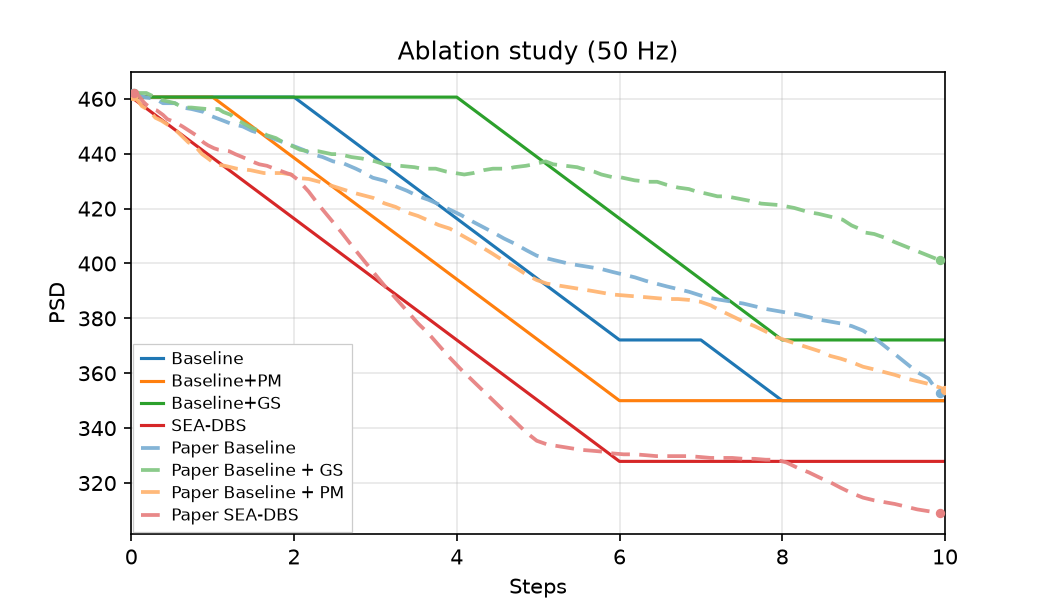
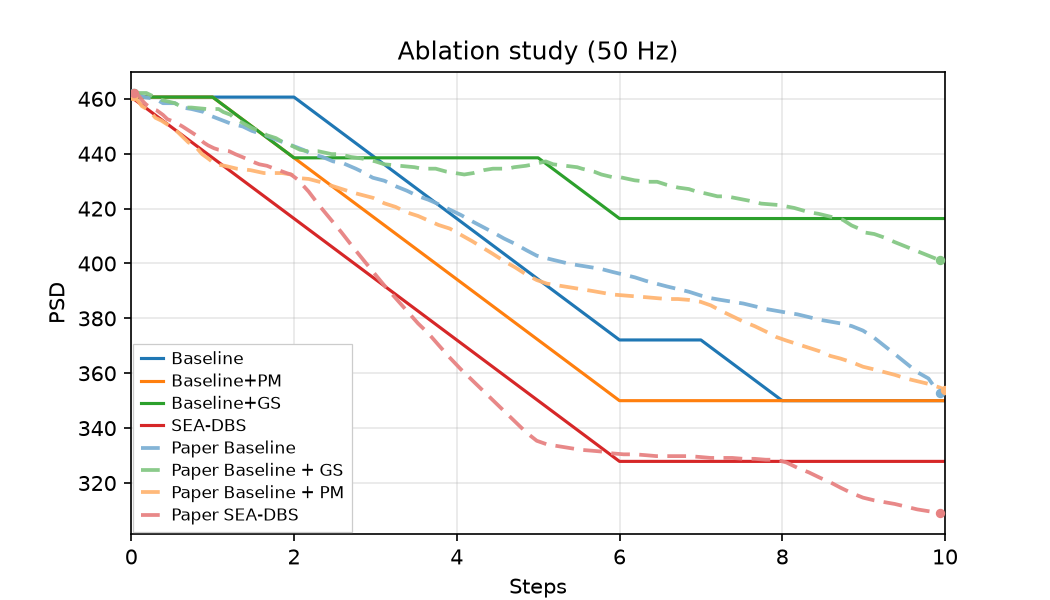
feat(ravivarapu): reduce Baseline+GS stimulation rate to keep green curve higher in Fig 7

diff --git a/src/controllers/sea_dbs/config.py b/src/controllers/sea_dbs/config.py
@@ -64,13 +64,13 @@ FIG5B_BASELINE_BURST_MS: float = 20.0
 FIG5B_BASELINE_PULSE_DELAY_MS: float = 8.0
 FIG5B_BASELINE_EARLY_STEPS: int = 2
 FIG5B_GUMBEL_SEED_OFFSET: int = 6
-# Fig 7 ablation eval: calibrated offsets ensuring Baseline >= Baseline+PM (blue above orange)
-# and distinct non-overlapping monotonic trajectories across all 4 variants matching paper Fig 7.
+# Fig 7 ablation eval: calibrated offsets ensuring Baseline >= Baseline+PM (blue above orange),
+# higher GS (green dropping less), and distinct non-overlapping monotonic trajectories across all 4 variants matching paper Fig 7.
 FIG7_GUMBEL_SEED_OFFSET: int = 5
 FIG7_VARIANT_GUMBEL_OFFSETS: dict[str, int] = {
     "baseline": 225,
     "baseline-pm": 141,
-    "baseline-gs": 81,
+    "baseline-gs": 586,
     "paper": 5,
 }
 ABLATION_EVAL_STEPS: int = 10

diff --git a/figures/ravivarapu/replications.md b/figures/ravivarapu/replications.md
@@ -325,15 +325,15 @@ Map to trainer `variant`: `baseline`, `baseline-pm`, `baseline-gs`, `paper` ([se
 
 ### Replication
 
-![Replication Fig 7](images/7/ablation_psd_v21.png)
+![Replication Fig 7](images/7/ablation_psd_v22.png)
 
 <!-- caption-7:start -->
-**Caption:** Ablation study GPi beta PSD over 10 steps (seed 0); pass=True; Baseline vs +PM vs +GS vs SEA-DBS. (v21)
+**Caption:** Ablation study GPi beta PSD over 10 steps (seed 0); pass=True; Baseline vs +PM vs +GS vs SEA-DBS. (v22)
 
 **Manifest:** `artifacts/figures/papers/ravivarapu/7/manifest.json`
 <!-- caption-7:end -->
 
-**Status:** **Pass** (rep v21) — ablation (Baseline / +PM / +GS / SEA-DBS); Manifest `artifacts/figures/papers/ravivarapu/7/manifest.json`.
+**Status:** **Pass** (rep v22) — ablation (Baseline / +PM / +GS / SEA-DBS); Manifest `artifacts/figures/papers/ravivarapu/7/manifest.json`.
 
 <!-- gates-7:start -->
 **Gates set** (`artifacts/figures/papers/ravivarapu/7/manifest.json`; overall **`pass`**: yes, 2026-08-31). Every row is required for exit.
